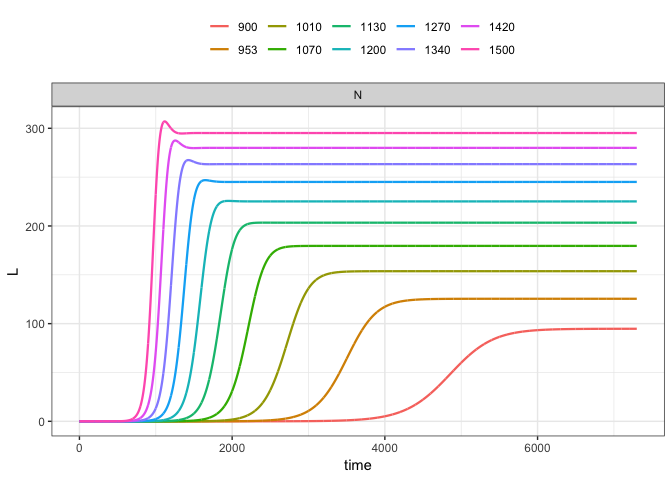
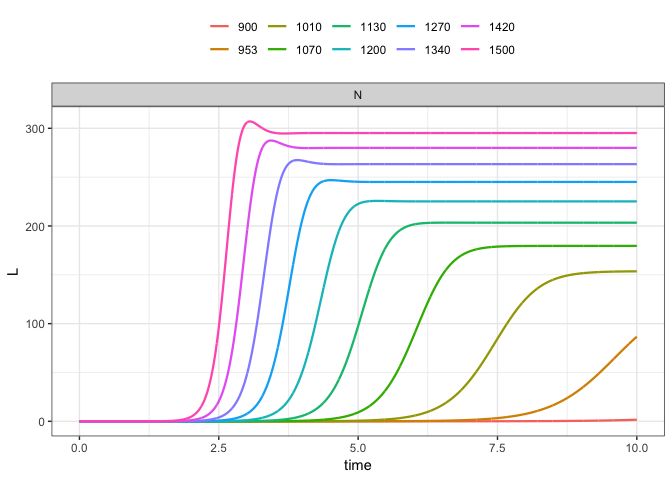
README

diff --git a/README.md b/README.md
@@ -40,15 +40,15 @@ mod %>%
 HIV viral dynamic model
 -----------------------
 
-We look at the latent infected cell pool at different "burst" size, or the number of HIV particles released when one cell lyses.
+We look at latent infected cell pool development over ten years at different "burst" size, or the number of HIV particles released when one cell lyses.
 
 ``` r
 mod <- mread("hiv", "inst/example")
 
 mod %>% 
-  update(end = 365*20) %>%
+  update(end = 365*10) %>%
   parseq_range(N = c(900,1500), .n = 10) %>%
-  sens_each() %>% 
+  sens_each(tscale = 1/365) %>% 
   sens_plot(L)
 ```
 
